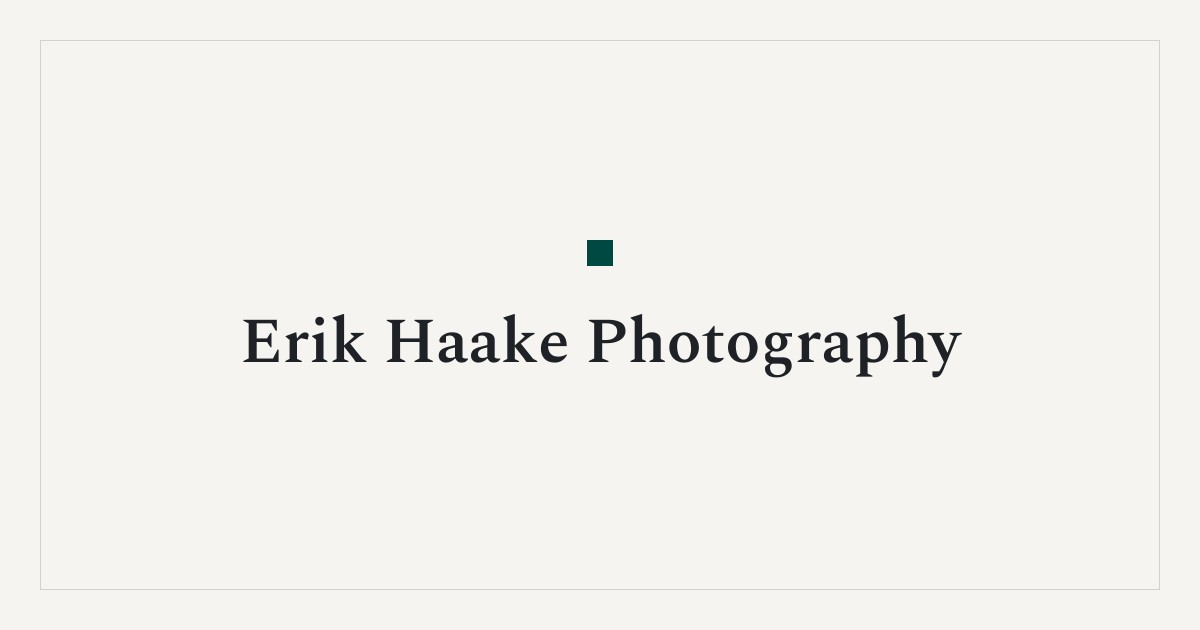
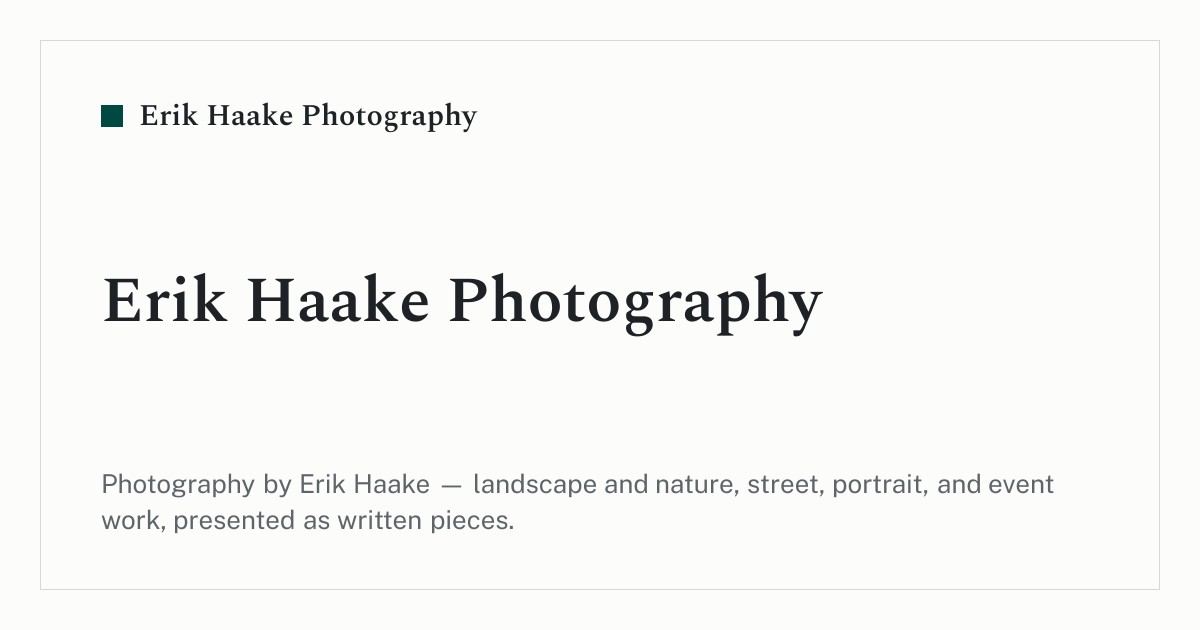
T1303: the ground is paper
The five ground tokens in :root take the paper candidate's values
(bg oklch(0.99 0.003 100) and its family), muted text unchanged since
the binding pair, muted on soft, clears 4.5:1 at 5.05. The candidate
table's today becomes paper and spec 003's warm survives as warm-003,
the control at both gates. The OG card's bg and line hexes follow and
public/og.jpg is regenerated from the shared card. Read in Firefox at
two viewports: html, cards, code, footer hairline and the quiet view
all at the committed literals, the stage's mat still white. Verify:
build, check, 331 tests green.

diff --git a/src/styles/global.css b/src/styles/global.css
@@ -6,15 +6,36 @@
   --color-accent-soft: color-mix(in oklch, var(--color-accent), transparent 84%);
   /* Text/icon color on top of a filled accent surface. */
   --color-on-accent: oklch(0.99 0.003 100);
-  /* Warmed at the spec-003 sampler review so pure-white mattes read as
-     mats on a gallery wall (chosen over mat edges and tinted mats). */
-  --color-bg: oklch(0.968 0.006 95);
-  --color-surface: oklch(0.945 0.007 95);
+  /* THE GROUND, and the family below it. Landed 2026-09-19 at spec
+     015's gate: the candidate `paper` — oklch(0.99 0.003 100) — chosen
+     on both screens with the site seen unmatted for the first time (the
+     mat is the image page's stage and the pause frame now, nothing
+     else). The four fills and hairlines are not separate choices: each
+     is a fixed step from this tone (`STEPS`, src/lib/ground.ts), and
+     ground.test.mjs pins these five literals to the strings the rule
+     derives — to retune, move the ground and paste what the failing
+     test prints.
+
+     The pair that bound: muted/soft at 5.05:1, the lowest of the six
+     floored pairs (inline code sits on the soft fill). It clears 4.5:1,
+     so --color-muted ships unchanged at oklch(0.5 0.012 250) — this
+     gate deepened nothing. White-mat-on-ground is 1.02:1 (ΔL 0.01): the
+     mat reads faintly here, and the stage's darker field is its own
+     spec (ROADMAP).
+
+     History: spec 003 warmed the ground to oklch(0.968 0.006 95) at its
+     sampler review so pure-white mattes read as mats on a gallery wall
+     (chosen over mat edges and tinted mats). Spec 014 built this
+     family's rule, the readout and the dev switch but closed with its
+     gate unanswered — the site was still matted everywhere, which is
+     what spec 015 changed before re-judging. */
+  --color-bg: oklch(0.99 0.003 100);
+  --color-surface: oklch(0.967 0.004 100);
   --color-text: oklch(0.25 0.01 250);
   --color-muted: oklch(0.5 0.012 250);
-  --color-line: oklch(0.86 0.008 95);
-  --color-line-strong: oklch(0.72 0.012 95);
-  --color-soft: oklch(0.92 0.008 95);
+  --color-line: oklch(0.882 0.005 100);
+  --color-line-strong: oklch(0.742 0.009 100);
+  --color-soft: oklch(0.942 0.005 100);
   --font-display: 'Spectral', Georgia, serif;
   --font-body: 'Public Sans', system-ui, sans-serif;
   --font-mono: 'JetBrains Mono Variable', ui-monospace, monospace;

diff --git a/src/lib/ground.ts b/src/lib/ground.ts
@@ -368,20 +368,20 @@ export const CONTROL: Tone = { L: 0.968, C: 0.006, h: 95 };
 
 /** The fixed set on the sampler's switch, beside the free tune. */
 export const CANDIDATES: Record<string, Candidate> = {
-  paper: {
-    id: 'paper',
+  today: {
+    id: TODAY,
     bg: { L: 0.99, C: 0.003, h: 100 },
-    why: "the pre-003 paper-white, spec 013's white — its companions now by the rule",
+    why: 'the control — selecting it removes the override, so it is the stylesheet itself',
   },
   light: {
     id: 'light',
     bg: { L: 0.98, C: 0.005, h: 95 },
     why: 'one step lighter than today',
   },
-  today: {
-    id: TODAY,
+  'warm-003': {
+    id: 'warm-003',
     bg: { L: 0.968, C: 0.006, h: 95 },
-    why: 'the control — selecting it removes the override, so it is the stylesheet itself',
+    why: "spec 003's warm — the control at spec 014's and 015's gates",
   },
   'deep-1': {
     id: 'deep-1',

diff --git a/specs/015-the-hero-mat/tasks.md b/specs/015-the-hero-mat/tasks.md
@@ -393,7 +393,7 @@ substance of the review. T1303 is written for every gate outcome; the
 bundle carries the gate record, and the implementer follows the branch
 it names. -->
 
-- [ ] **T1303** — The gate's tone, or the record that it stayed.
+- [x] **T1303** — The gate's tone, or the record that it stayed.
       Pattern: spec 014's T1204 line (specs/014-ground-tone/tasks.md —
       never run; this is it) and `:root` in `src/styles/global.css` with
       its comment above `--color-bg`. **Changed**: `src/styles/global.css`
@@ -634,6 +634,7 @@ tier if it is ever on (it is off). -->
 | T1301a (`sdd-implementer`)                          | implementation (`opus`, high)  | 44,775  | done first dispatch; match-height tolerance set to 0.25px             |
 | T1302 (`sdd-implementer`)                           | implementation (`opus`, high)  | 108,355 | done first dispatch; Firefox 155 BiDi needs -remote-allow-system-access |
 | Phase 0 review (`skeptical-reviewer`)               | implementation (`opus`, high)  | 113,339 | SIGN OFF, 0 blocking, N1–N6 → the sweep; gate walk names an inline paragraph image |
+| T1303 (`sdd-implementer`)                           | implementation (`opus`, high)  | 117,068 | done first dispatch; paper branch, muted unchanged; og.jpg regenerated (25→49 KB) |
 
 _(Session-tier allowance draw noted at each pause.)_
 
